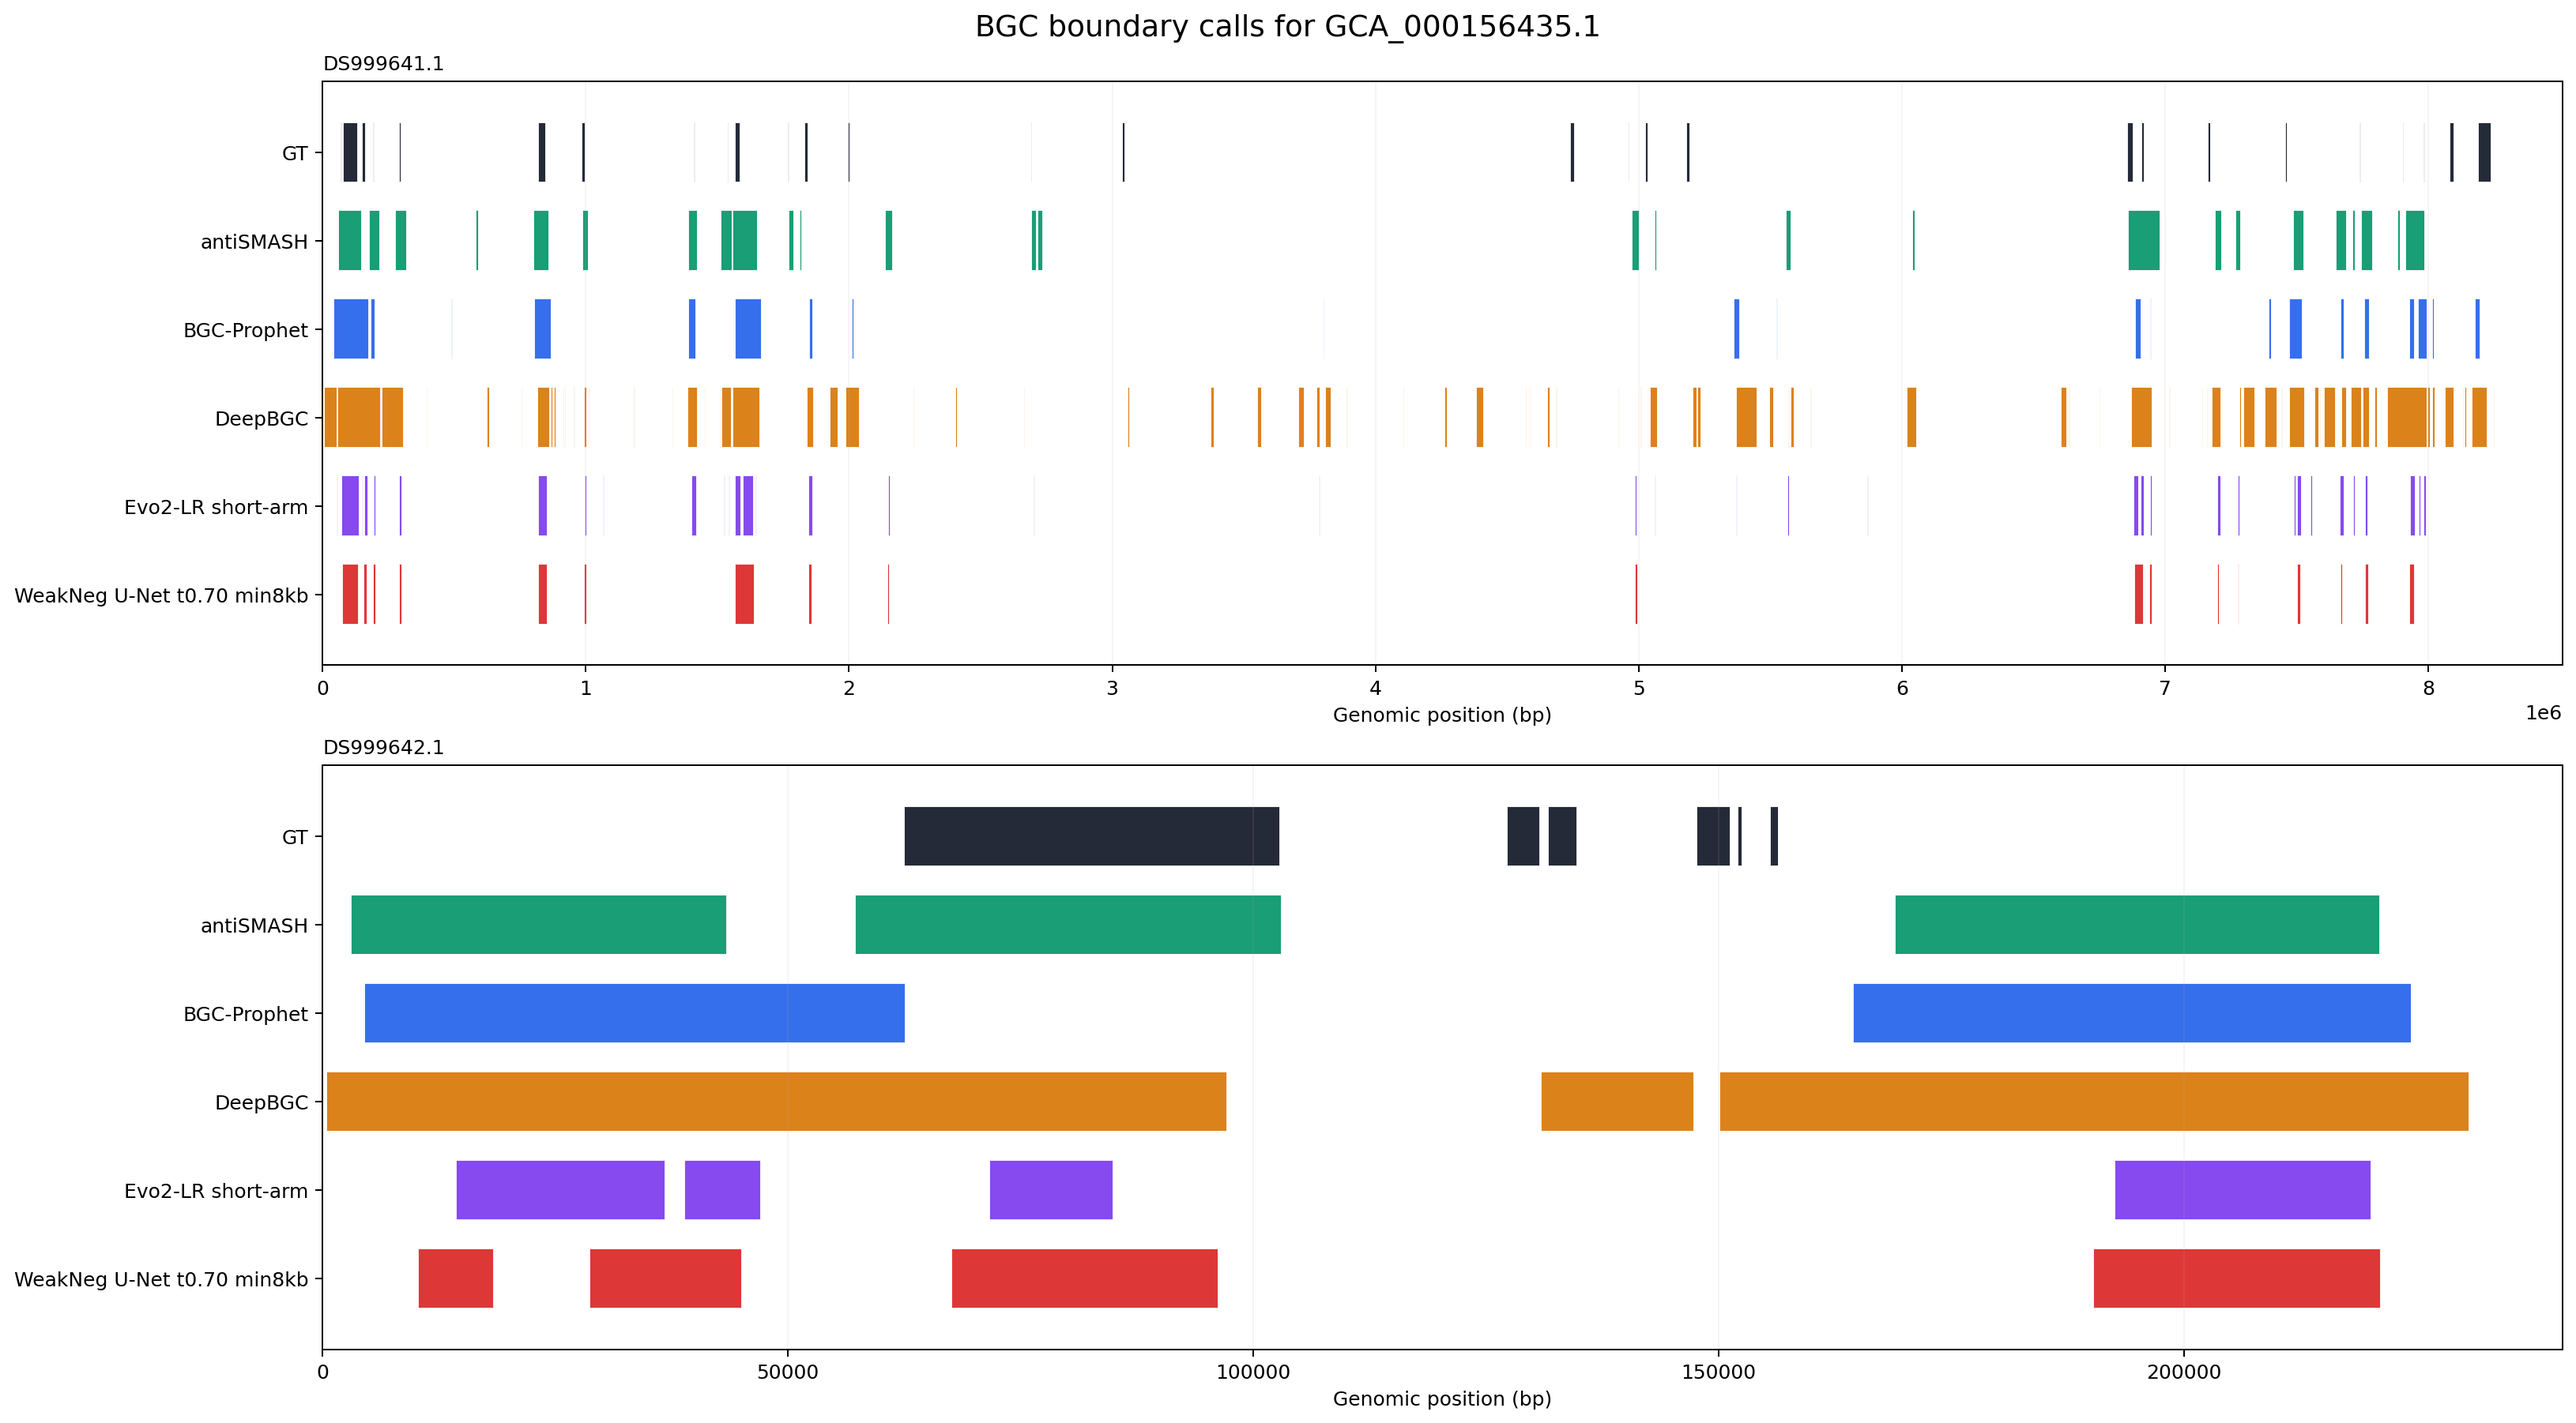
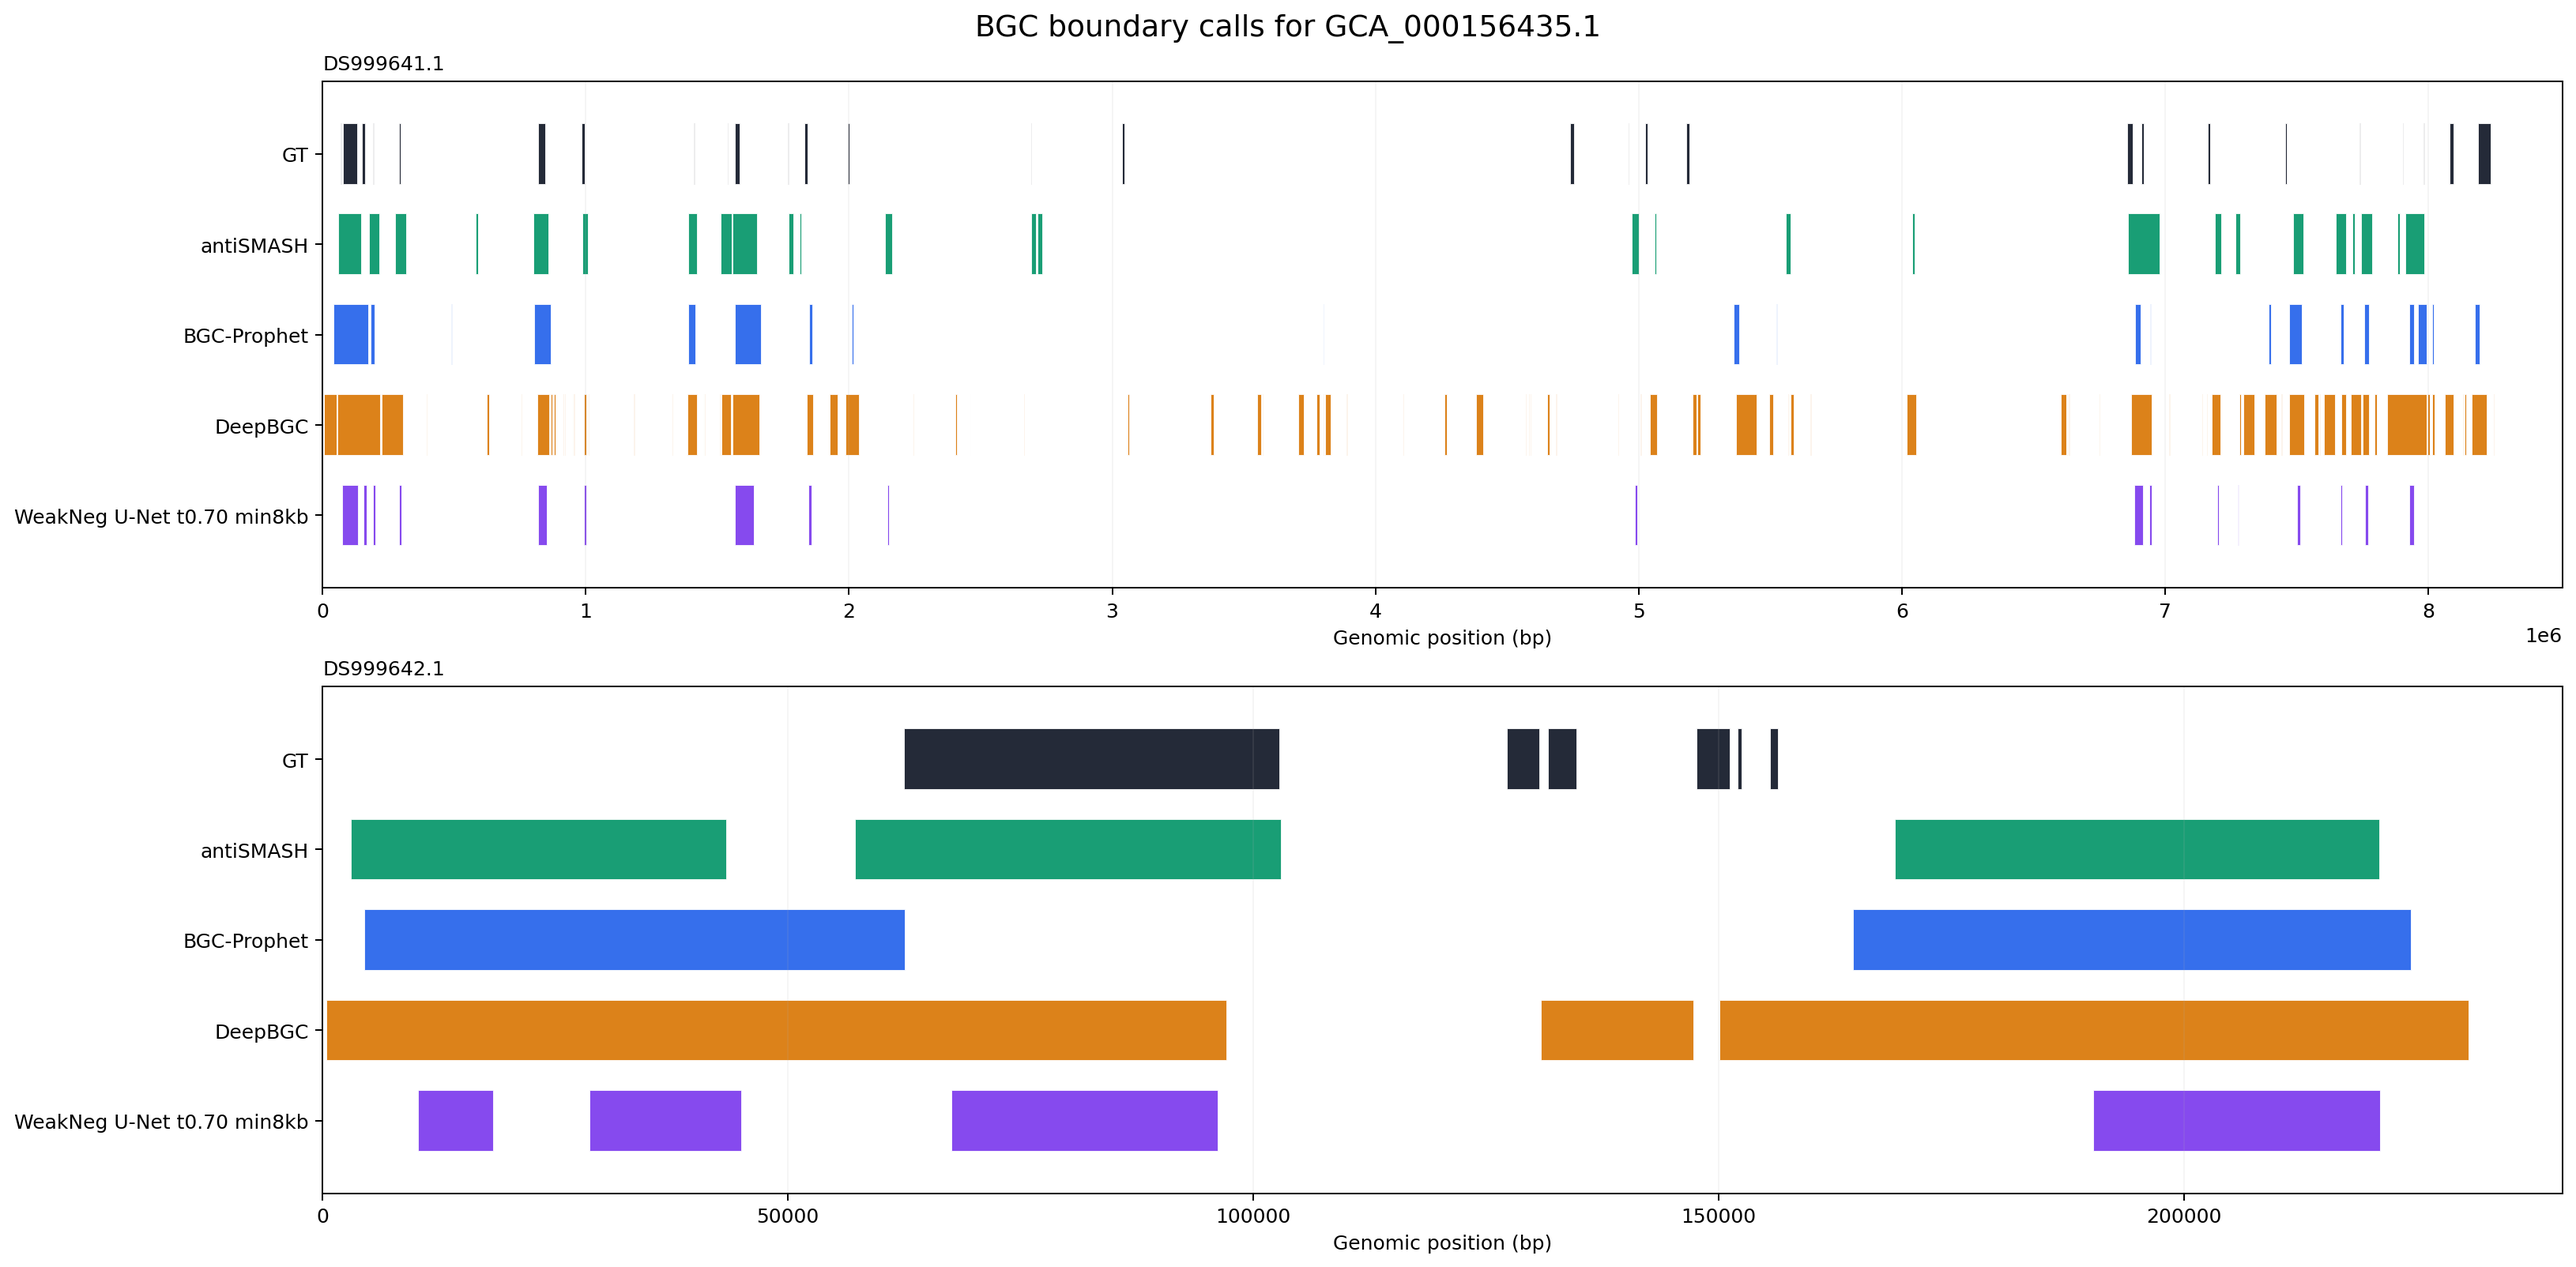
docs: enhance Evo2 per-token U-Net documentation and configuration

diff --git a/README.md b/README.md
@@ -13,7 +13,7 @@ Output: BGC region calls with `genome`, `contig`, `start`, `end`, score/source f
 | Mainline | Purpose | Status | Key entrypoints | Results |
 |---|---|---|---|---|
 | `evo2_lr_multiscale` | Original v4.1 line renamed: Evo2 mean-pool embeddings + LR scorer + multi-scale decoder. | Formal 9-genome mainline. OER learned-decoder variant is metagenome-focused. | `scripts/decode/evo2_lr_multiscale.py`, `scripts/evaluate/evo2_lr_multiscale.py`, `scripts/decode/evo2_lr_learned_decoder.py` | `experiments/evo2_lr_multiscale/` |
-| `evo2_per_token_unet` | Per-token Evo2 features + U-Net decoder for short metagenomic contigs. | Exploratory candidate. The E10/E11 thresholds are not selected from 9-genome, but the model family has 9g-exposed history and is not a formal benchmark claim. | `scripts/train/evo2_per_token_unet/`, `scripts/inference/evo2_per_token/`, `scripts/decode/evo2_per_token_regions.py` | `experiments/evo2_per_token_unet/` |
+| `evo2_per_token_unet` | Per-token Evo2 features + U-Net decoder for short metagenomic contigs. | Exploratory discovery candidate. Current wet-lab handoff uses the weak-negative BCE model; 9-genome numbers remain diagnostic, not formal claims. | `scripts/train/evo2_per_token_unet/`, `scripts/inference/evo2_per_token/`, `scripts/decode/evo2_per_token_regions.py` | `experiments/evo2_per_token_unet/` |
 
 `defrag_v2` detection and other probes are retired from active development. Historical files were moved to `_archive/2026-04-26-mainline-reset/` and are intentionally ignored by git.
 
@@ -23,13 +23,14 @@ See `docs/REGRESSION_LEDGER.md` for the current claims and caveats. Headline act
 
 - `evo2_lr_multiscale` on 9-genome: dedup F1 `0.4878`, bench precision `0.5976`, bench recall `0.4590`.
 - `evo2_lr_learned_decoder` on OER004256: 1,230 regions, 429 antiSMASH-missed candidates in the committed handoff artifact.
-- `evo2_per_token_unet` E10 on OER004256: AS-recall `0.3117` at threshold `0.3`; diagnostic only until a clean pre-registered selection rule is run.
+- `evo2_per_token_unet` weak-negative BCE on OER004256: AS-recall `0.5703` at `thr0.50/min2kb`, 579 antiSMASH-missed candidates, 171 first-pass wet-lab PASS after HMM/MIBiG triage.
+- `evo2_per_token_unet` weak-negative BCE on 9-genome: diagnostic dedup F1 `0.5094` at `thr0.70/min8kb`; not a formal benchmark claim.
 
 ## Qualitative Boundaries
 
-The current E10 U-Net conservative point (`threshold=0.4`) has per-genome 9-genome boundary plots in `figures/evo2_per_token_unet_boundaries/`.
+The current weak-negative U-Net 9-genome diagnostic point (`threshold=0.70`, `min_len=8kb`) has per-genome boundary plots in `figures/evo2_per_token_unet_boundaries_weakneg_thr070_min8000/`.
 
-![Evo2 per-token U-Net 9-genome boundaries](figures/evo2_per_token_unet_boundaries/overview_3x3.png)
+![Weak-negative Evo2 per-token U-Net 9-genome boundaries](figures/evo2_per_token_unet_boundaries_weakneg_thr070_min8000/overview_3x3.png)
 
 ## Layout
 

diff --git a/docs/REGRESSION_LEDGER.md b/docs/REGRESSION_LEDGER.md
@@ -22,6 +22,10 @@ Formal benchmark rule: no thresholds, operating points, model families, or hyper
 | `evo2_lr_learned_decoder` | antiSMASH-missed candidates | **429** | `experiments/evo2_lr_multiscale/oer004256_learned_decoder/novel_triage/novel_triage_full.csv` |
 | `evo2_lr_learned_decoder` | OER same-script AS-recall | **0.2065** (408 / 1,976) | `experiments/evo2_lr_multiscale/oer004256_learned_decoder/oer_compare.json` |
 | `evo2_lr_learned_decoder` | canonical 9g dedup F1 | **0.3323** | `experiments/evo2_lr_multiscale/learned_decoder_nine_genome_readout.json`; metagenome tradeoff, not formal 9g replacement |
+| `evo2_per_token_unet` weak-negative BCE `thr0.50/min2kb` | detected regions | **2,199** | `experiments/evo2_per_token_unet/oer004256/weakneg_bce_w05_full/thr050_min2000/regions_typed.csv` |
+| `evo2_per_token_unet` weak-negative BCE `thr0.50/min2kb` | OER same-script AS-recall | **0.5703** | `experiments/evo2_per_token_unet/oer004256/weakneg_bce_w05_full/thr050_min2000/oer_compare.json` |
+| `evo2_per_token_unet` weak-negative BCE `thr0.50/min2kb` | antiSMASH-missed candidates | **579** | `experiments/evo2_per_token_unet/oer004256/weakneg_bce_w05_full/thr050_min2000/novel_triage/candidates_novel.csv` |
+| `evo2_per_token_unet` weak-negative BCE `thr0.50/min2kb` | first-pass wet-lab PASS after HMM/MIBiG | **171** | `experiments/evo2_per_token_unet/oer004256/weakneg_bce_w05_full/thr050_min2000/novel_triage/novel_triage_full.csv` |
 
 The older learned-decoder `0.461` number used a different greedy-pairing metric and must not be compared to the formal `0.4878` number.
 
@@ -37,8 +41,10 @@ The older learned-decoder `0.461` number used a different greedy-pairing metric 
 | E10 threshold 0.4 | 9g dedup F1 | **0.4664** | same |
 | E10 threshold 0.5 | 9g dedup F1 | **0.4751** | same |
 | E11 threshold 0.3 / 0.4 / 0.5 | 9g dedup F1 | 0.4470 / 0.4500 / 0.4544 | `experiments/evo2_per_token_unet/nine_genome/E11_h64_lr1e3_b64/readouts/` |
+| weak-negative BCE `thr0.70/min8kb` | 9g dedup F1 | **0.5094** | `experiments/evo2_per_token_unet/train_runs/full_weakneg_bce_w05_ddp4_gb64_seed0/9g_readouts/readout_thr070_min8000.json` |
+| weak-negative BCE `thr0.70/min8kb` | 9g bench precision / recall | 0.6199 / 0.4492 | same |
 
-Status: threshold-clean diagnostic, not a formal 9-genome claim. Thresholds 0.3 and 0.4 are OER-driven; threshold 0.5 is a default reference. The U-Net model family was advanced after 9-genome Round-1 readouts, so promotion requires a fresh pre-registered selection protocol.
+Status: diagnostic, not a formal 9-genome claim. E10/E11 thresholds 0.3 and 0.4 are OER-driven; threshold 0.5 is a default reference. The weak-negative model is the current OER handoff model, but its `thr0.70/min8kb` 9-genome point was selected diagnostically after 9-genome evaluation. Formal promotion still requires a fresh pre-registered selection protocol.
 
 ## Reproduce Commands
 

diff --git a/docs/PROJECT_STATE.md b/docs/PROJECT_STATE.md
@@ -12,9 +12,11 @@ This is the renamed original v4.1 line. It uses frozen Evo2 mean-pooled embeddin
 
 ## 2. `evo2_per_token_unet`
 
-This is the per-token U-Net candidate branch. It is useful for short metagenomic contigs and currently has promising OER readouts, but it is not a formal 9-genome claim because the model-family selection history saw 9-genome results.
+This is the per-token U-Net candidate branch. It is useful for short metagenomic contigs and currently has a weak-negative BCE wet-lab handoff on OER004256. It is not a formal 9-genome claim because the model-family selection history saw 9-genome results and the current diagnostic operating points were not pre-registered.
 
 - Readout: `experiments/evo2_per_token_unet/OER_UNET_READOUT.md`
+- Current handoff: `experiments/evo2_per_token_unet/WEAKNEG_OER_READOUT.md`
+- Wet-lab top candidates: `experiments/evo2_per_token_unet/oer004256/weakneg_bce_w05_full/thr050_min2000/novel_triage/wetlab_candidates_top75.csv`
 - Config: `configs/evo2_per_token_unet.yaml`
 - Status: diagnostic until a clean pre-registered checkpoint and threshold rule is executed.
 
